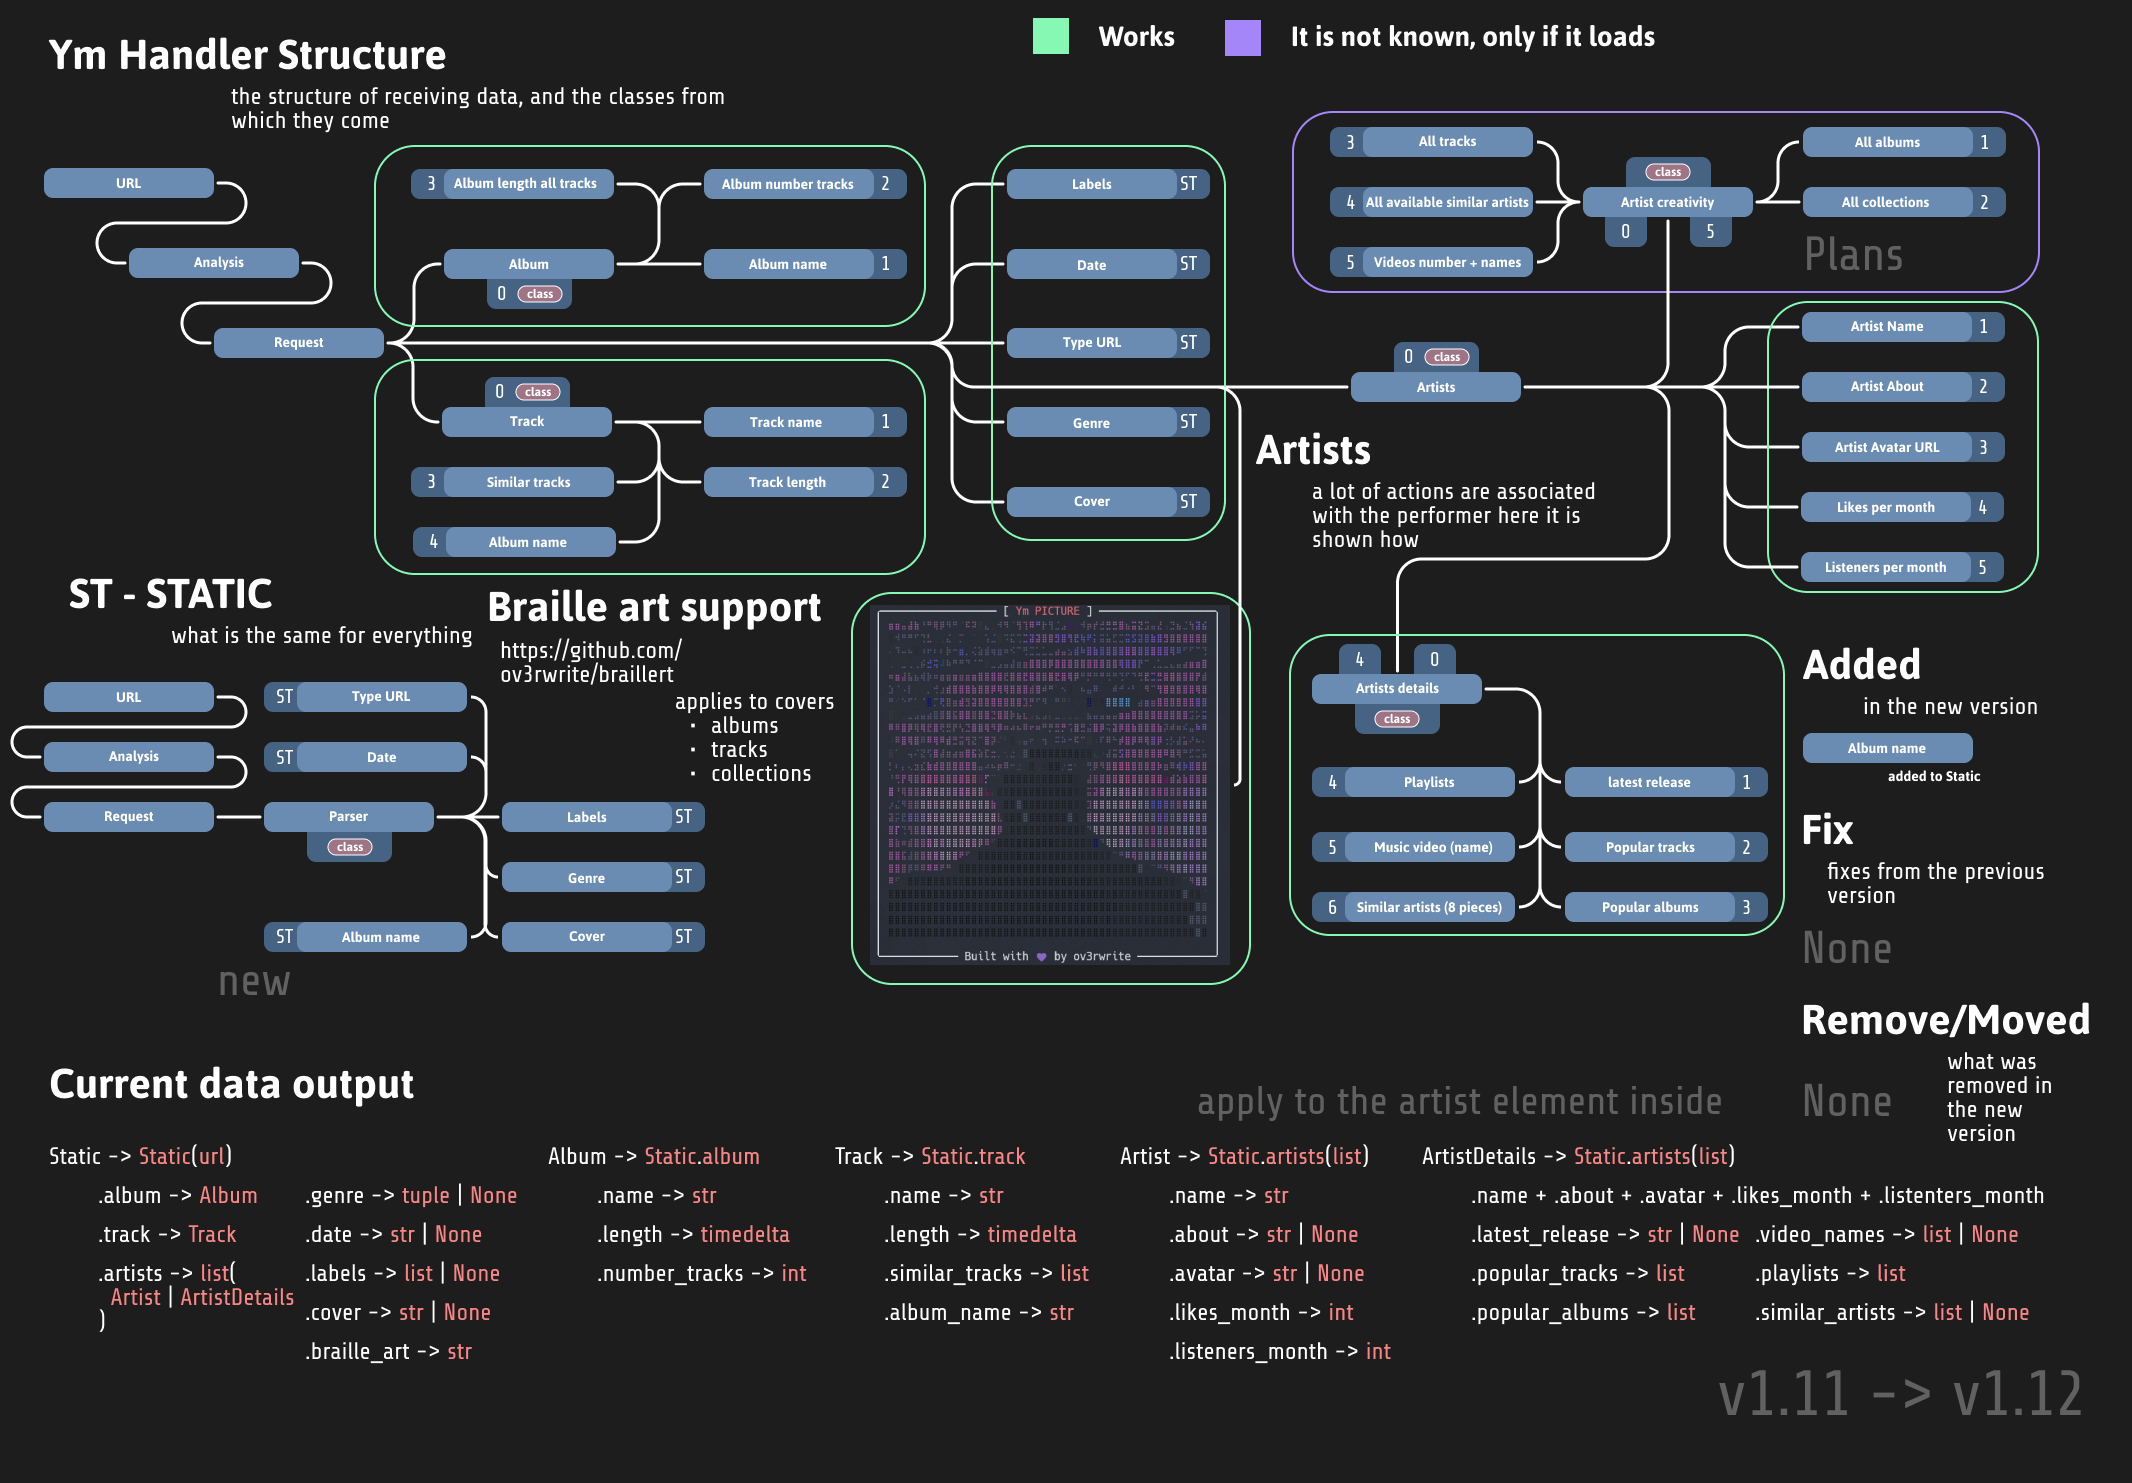
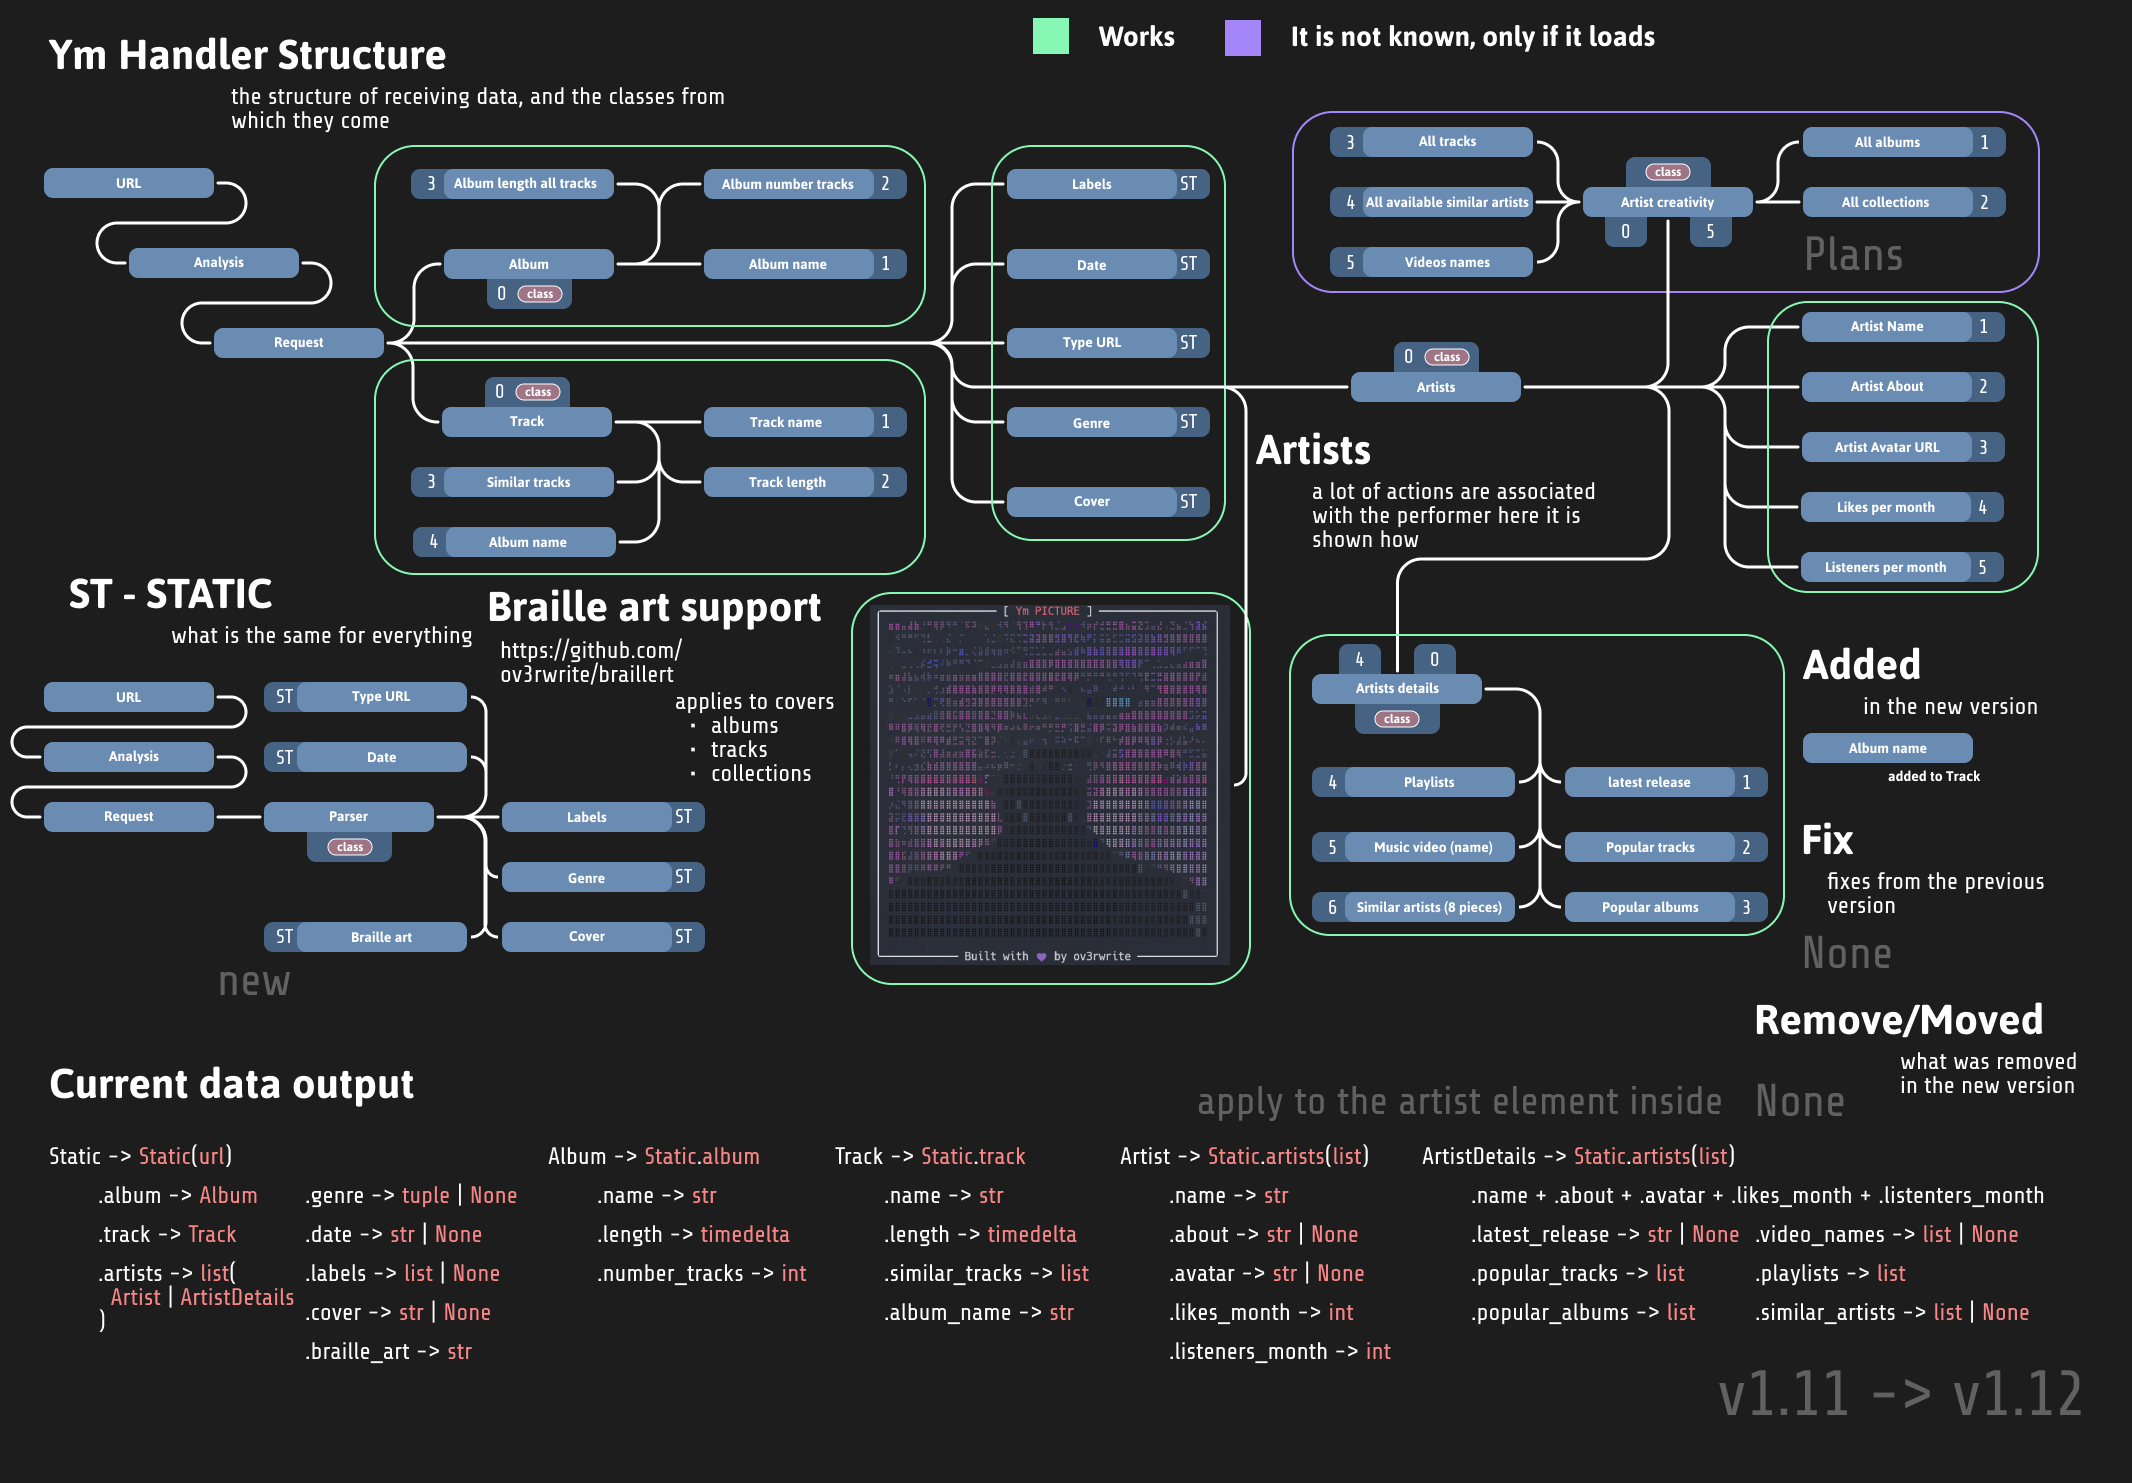
v1.12.2

diff --git a/parsing/parser.py b/parsing/parser.py
@@ -6,10 +6,11 @@ from braillert.colors import RICH_COLORS, RICH_RESETTER
 from braillert.generator import Generator
 from PIL import Image
 
-from re_parsing.request import Request
+from parsing.request import Request
 
 # FIX OUTPUT LIKES
 # FIX ALBUM_NAME
+# FIX LATEST RELEASE(MAIN)
 
 # Consts
 
@@ -418,7 +419,7 @@ class ArtistDetails(Artist):
         return self.__popular_album
 
     @property
-    def video_names(self) -> list | None:
+    def details_videos(self) -> list | None:
         """return a list of music video titles"""
 
         if not self.__video_names:
@@ -486,8 +487,6 @@ class ArtistCreativity(Artist):
             self.__parse_albums = Request(
                 YM_ARTIST + self.__artist_code + "/albums"
             ).parse_url()
-        else:
-            pass
 
         temp = re.findall(
             r"<span(?:\s+[^<]*)typo\stypo-h2_bold",
@@ -593,6 +592,7 @@ class Static:
 
     def __init__(self, url: str) -> None:
         self.__parse = self.analysis(url)
+        self.__artist_id = self.artist_id()
         self.__genre = None
         self.__date = None
         self.__labels = None
@@ -619,6 +619,7 @@ class Static:
             else:
                 self.type_url = "track"
                 self.__track_id = answer.get("track")
+                # self.__artist_id = self.artist_id()
             return Request(match.group()).parse_url()
 
         raise TypeError("Incorrect URL")
@@ -642,6 +643,29 @@ class Static:
 
         return True
 
+    def artist_id(self) -> list:
+        """_summary_
+
+        Returns:
+            _type_: _description_
+        """
+
+        temp_artist_link_block: str = re.search(
+            r"(?:<span\sclass=\"d-artists-many(?:.+?)|"
+            r"<div\sclass=\"page-album__artists-short(?:.+?))"
+            r"<div\sclass=\"d-album-summary",
+            self.__parse,
+            re.M,
+        ).group()
+
+        temp_artist_link_artists: list = re.findall(
+            r"/artist/(\d+)",
+            temp_artist_link_block,
+            re.M,
+        )
+
+        return temp_artist_link_artists
+
     @property
     def album(self) -> Album:
         """return Album class"""
@@ -664,23 +688,14 @@ class Static:
         Popular Albums, Playlists, The Name of music videos,
         Similar artists (8 pieces)."""
 
-        temp_artist_link_block: str = re.search(
-            r"d-artists\sd-artists__expanded\"(.+?[^>]*)</",
-            self.__parse,
-            re.M,
-        ).group()  # TODO
-
-        temp_artist_link_artists: list = re.findall(
-            r"/artist/(\d+)",
-            temp_artist_link_block,
-            re.M,
-        )
+        if not self.__artist_id:
+            self.artist_id()
 
         if self.check_compilation():
             return []
 
         artists_base = []
-        for i in temp_artist_link_artists:
+        for i in self.__artist_id:
             if details and creativity:
                 pass
             elif details:
@@ -777,8 +792,13 @@ class Static:
 
         if not self.__braille_art:
             Request(url).parse_img()
-            cover = Generator(Image.open("image.jpg"),
-                              RICH_COLORS, RICH_RESETTER).generate_art()
+            image = Image.open("image.jpg")
+            width = 100
+            wpercent = width / float(image.size[0])
+            hsize = int((float(image.size[1]) * float(wpercent)))
+            image = image.resize((width, hsize), Image.Resampling.LANCZOS)
+
+            cover = Generator(image, RICH_COLORS, RICH_RESETTER).generate_art()
             os.remove("image.jpg")
             self.__braille_art = cover
             return cover

diff --git a/main.py b/main.py
@@ -3,7 +3,7 @@ import argparse
 from rich.console import Console
 from rich.panel import Panel
 
-from re_parsing.parser import Static
+from parsing.parser import Static
 
 # Consts
 
@@ -37,6 +37,12 @@ def output_artist(nots: str, artists: list, det: bool, creat: bool) -> None:
     """transferred decor"""
 
     for i in artists:
+        print()
+        console.print(
+            f"[ [bold red]Ym STATIC {YEL}->{YELEND} Artist branch"
+            "[/bold red] ] [bold yellow]\u21AF[/bold yellow] Uploaded"
+        )
+        print()
         console.print(
             f"{STATIC} About {GRE}{i.name}{GREEND} - "
             f"{i.about if i.about else nots}",
@@ -63,7 +69,7 @@ def output_artist(nots: str, artists: list, det: bool, creat: bool) -> None:
             print()
             console.print(
                 f"{DETAILS} Latest release - "
-                f"{GRE}+{i.latest_release if i.latest_release else nots}"
+                + (GRE + i.latest_release if i.latest_release else nots)
             )
             console.print(
                 f"{DETAILS} Popular tracks - "
@@ -79,7 +85,7 @@ def output_artist(nots: str, artists: list, det: bool, creat: bool) -> None:
             )
             console.print(
                 f"{DETAILS} Videos - "
-                f"{decor_join(i.video_names) if i.video_names else nots}"
+                f"{decor_join(i.details_videos) if i.video_names else nots}"
             )
             console.print(
                 f"{DETAILS} Similar artists - "
@@ -204,13 +210,7 @@ def output_console(url: str, det: bool, creat: bool, cover: bool) -> None:
         f"{STATIC} Year of release - {GRE}{stat.date}{GREEND} | "
         f"Labels - {decor_join(stat.labels)}"
     )
-    print()
     if artistsreq:
-        console.print(
-            f"[ [bold red]Ym STATIC {YEL}->{YELEND} Artist branch"
-            "[/bold red] ] [bold yellow]\u21AF[/bold yellow] Uploaded"
-        )
-        print()
         output_artist(nots, artistsreq, det, creat)
 
     if det and not artistsreq and stat.type_url == "album":
